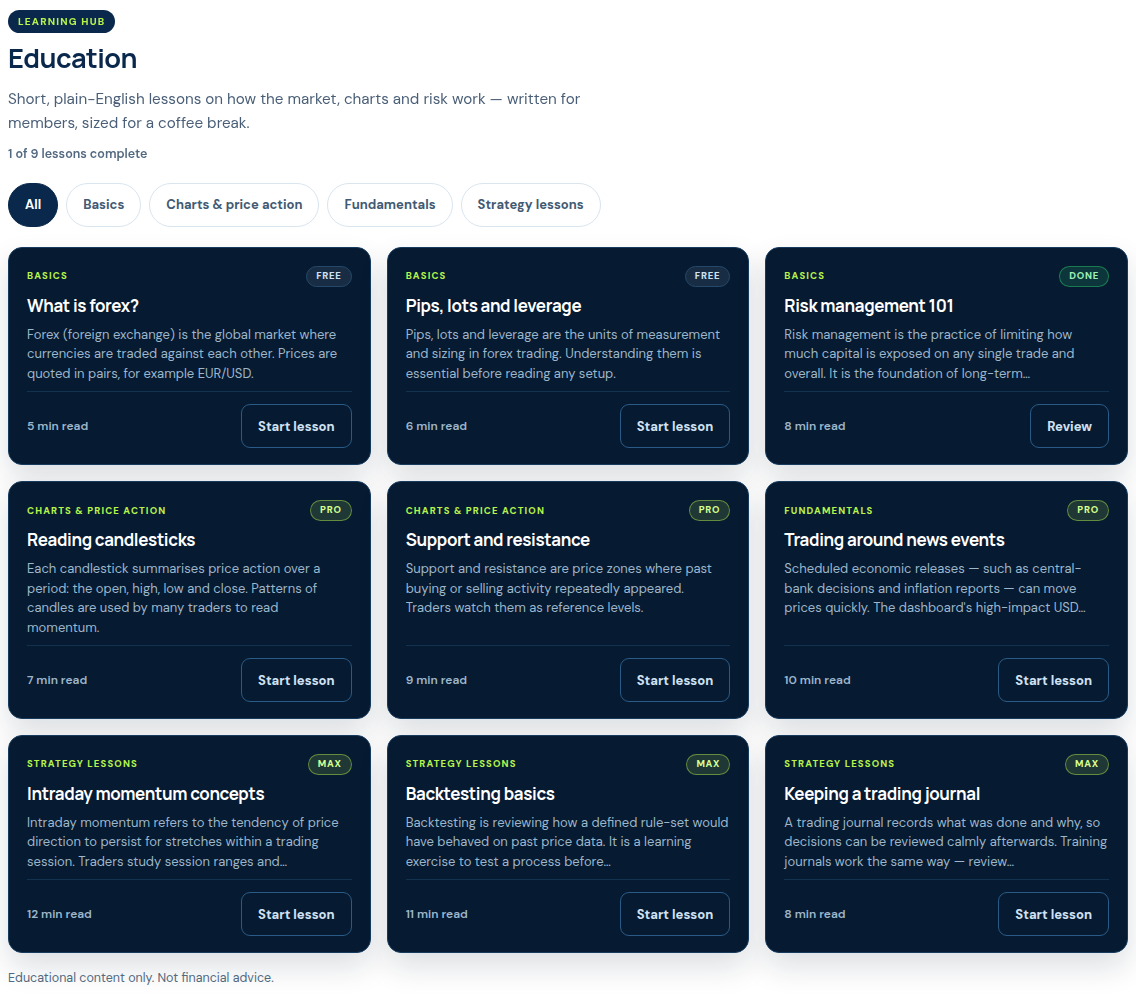
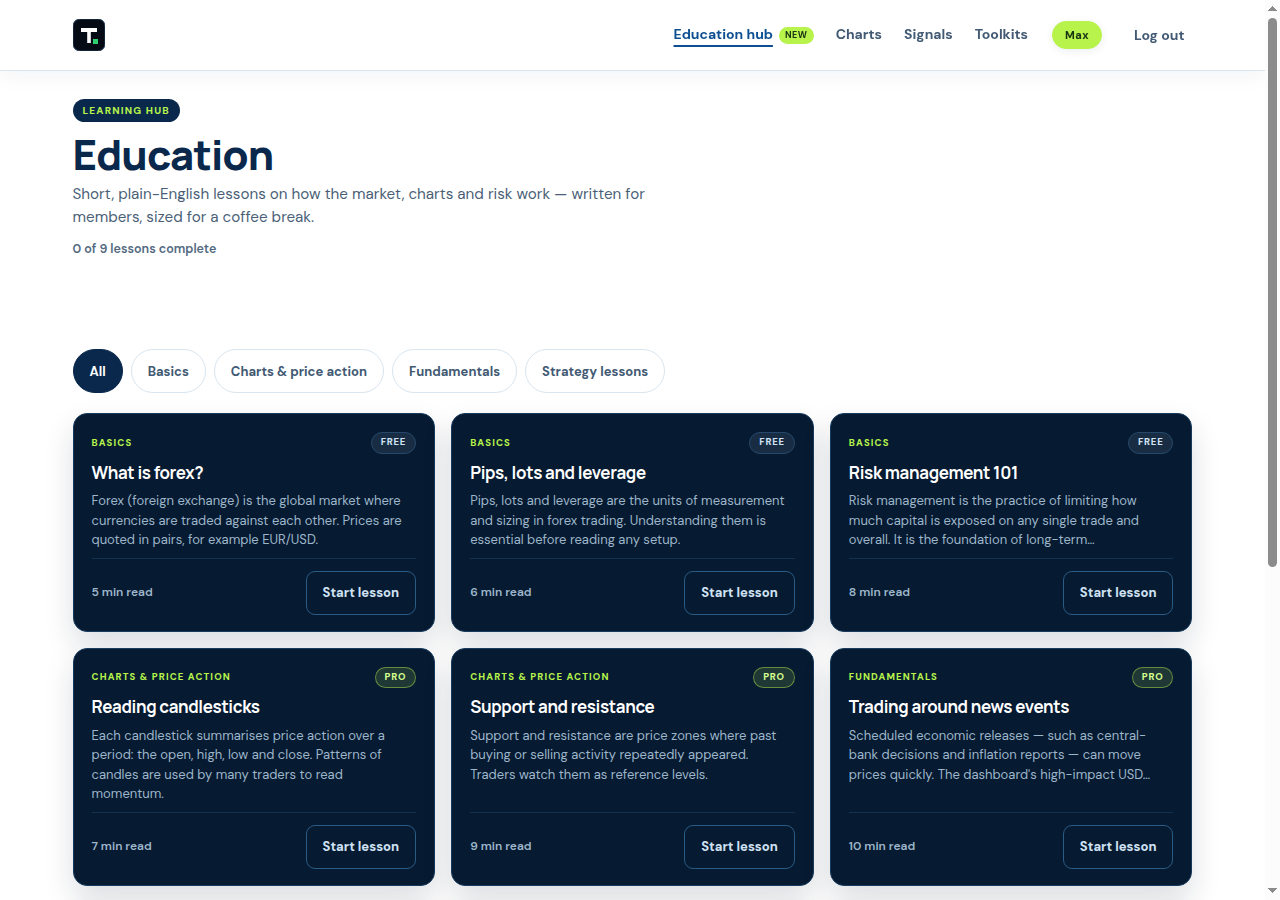
feat(education): move hub to its own page, simplify member nav
- education.html: standalone Learning hub page (header, intro, continue
  card, category tabs, lesson grid, disclaimer, footer). members.html no
  longer carries the Education section.
- Nav across members/education/lesson/subscribe: logo mark only (wordmark
  removed), then Education hub - Charts - Signals - Toolkits.
- members.html: Education nav link points at education.html; adds a
  #toolkits anchor above the signals section where the tools render.
- education.js: hub resolves the member via requireMember() so the page
  knows the plan before rendering; scrollspy dropped (own page now, so
  aria-current="page" is static); back links point at education.html.
- app.css: nav badge + aria-current styles live with the shared nav.

diff --git a/members.html b/members.html
@@ -9,7 +9,6 @@
 <link rel="preconnect" href="https://fonts.gstatic.com" crossorigin>
 <link href="https://fonts.googleapis.com/css2?family=DM+Sans:wght@400;500;600;700;800&family=Manrope:wght@500;600;700;800&display=swap" rel="stylesheet">
 <link rel="stylesheet" href="app.css">
-<link rel="stylesheet" href="education.css?v=2026102001">
 <style>
 [hidden]{display:none!important}
 .badge{font:700 .85rem var(--body);padding:4px 12px;border-radius:99px;background:var(--panel2);border:1px solid var(--line);color:var(--muted)}
@@ -31,13 +30,12 @@
 <header>
   <div class="wrap nav">
     <a class="logo" href="members.html" aria-label="TraderWatch member area">
-      <svg width="32" height="32" viewBox="0 0 32 32" aria-hidden="true"><rect width="32" height="32" rx="7" fill="#050b14" stroke="#264261"/><path d="M8 9h16v4h-6.2v11h-3.6V13H8z" fill="#fff"/><rect x="20" y="20" width="5" height="5" fill="#2ecf6f"/></svg>
-      <span>TraderWatch</span></a>
+      <svg width="32" height="32" viewBox="0 0 32 32" aria-hidden="true"><rect width="32" height="32" rx="7" fill="#050b14" stroke="#264261"/><path d="M8 9h16v4h-6.2v11h-3.6V13H8z" fill="#fff"/><rect x="20" y="20" width="5" height="5" fill="#2ecf6f"/></svg></a>
     <nav aria-label="Member">
+      <a href="education.html">Education hub<span class="edu-new">NEW</span></a>
       <a href="members.html#charts">Charts</a>
       <a href="members.html#signals">Signals</a>
-      <a href="members.html#education" data-edu-link>Education<span class="edu-new">NEW</span></a>
-      <a href="subscribe.html">Subscription</a>
+      <a href="members.html#toolkits">Toolkits</a>
     </nav>
     <span class="badge" id="planBadge">Free</span>
     <button class="linkbtn" type="button" onclick="logOut()">Log out</button>
@@ -102,29 +100,14 @@
       <p class="tg-note" id="tgNote" hidden></p>
     </section>
 
+    <div id="toolkits"></div>
+
     <section class="block tw-motion" id="signals">
       <h2>Signals</h2>
       <div class="signals" id="signalGrid"></div>
       <p class="sample" id="signalNote"></p>
     </section>
 
-    <section class="block edu" id="education" aria-labelledby="eduTitle">
-      <div class="edu-head">
-        <p class="edu-eyebrow">Learning hub</p>
-        <h2 id="eduTitle">Education</h2>
-        <p class="edu-sub">Short, plain-English lessons on how the market, charts and risk work — written for members, sized for a coffee break.</p>
-        <p class="edu-meta" id="eduMeta"></p>
-      </div>
-
-      <div class="edu-continue" id="eduContinue" hidden></div>
-
-      <div class="edu-tabs" id="eduTabs" role="tablist" aria-label="Lesson category"></div>
-
-      <div class="edu-grid" id="eduGrid" role="tabpanel" aria-labelledby="eduTab0"></div>
-      <p class="edu-empty" id="eduEmpty" hidden>No lessons in this category yet.</p>
-
-      <p class="edu-disclaimer">Educational content only. Not financial advice.</p>
-    </section>
   </div>
 </main>
 
@@ -140,8 +123,6 @@
 <script>window.TW_CONFIG = { tzOffset: 8, supportUrl: "", brand: "TraderWatch" };</script>
 <script src="members-tools.js?v=202610182133" defer></script>
 <script src="members-tools-2.js?v=2026101903" defer></script>
-<script src="education-data.js?v=2026102001" defer></script>
-<script src="education.js?v=2026102001" defer></script>
 <script>
 (async function(){
 const member = await requireMember();

diff --git a/education.html b/education.html
@@ -1,0 +1,65 @@
+<!DOCTYPE html>
+<html lang="en">
+<head>
+<meta charset="utf-8">
+<meta name="viewport" content="width=device-width, initial-scale=1">
+<title>Education – TraderWatch</title>
+<meta name="robots" content="noindex">
+<link rel="preconnect" href="https://fonts.googleapis.com">
+<link rel="preconnect" href="https://fonts.gstatic.com" crossorigin>
+<link href="https://fonts.googleapis.com/css2?family=DM+Sans:wght@400;500;600;700;800&family=Manrope:wght@500;600;700;800&display=swap" rel="stylesheet">
+<link rel="stylesheet" href="app.css?v=2026102002">
+<link rel="stylesheet" href="education.css?v=2026102002">
+<style>[hidden]{display:none!important}</style>
+</head>
+<body>
+<header>
+  <div class="wrap nav">
+    <a class="logo" href="members.html" aria-label="TraderWatch member area">
+      <svg width="32" height="32" viewBox="0 0 32 32" aria-hidden="true"><rect width="32" height="32" rx="7" fill="#050b14" stroke="#264261"/><path d="M8 9h16v4h-6.2v11h-3.6V13H8z" fill="#fff"/><rect x="20" y="20" width="5" height="5" fill="#2ecf6f"/></svg></a>
+    <nav aria-label="Member">
+      <a href="education.html" aria-current="page">Education hub<span class="edu-new">NEW</span></a>
+      <a href="members.html#charts">Charts</a>
+      <a href="members.html#signals">Signals</a>
+      <a href="members.html#toolkits">Toolkits</a>
+    </nav>
+    <span class="badge" id="planBadge">Free</span>
+    <button class="linkbtn" type="button" id="eduLogout">Log out</button>
+  </div>
+</header>
+
+<main class="page edu-page">
+  <div class="wrap">
+    <div class="edu-head">
+      <p class="edu-eyebrow">Learning hub</p>
+      <h1 class="edu-title" id="eduTitle">Education</h1>
+      <p class="edu-sub">Short, plain-English lessons on how the market, charts and risk work — written for members, sized for a coffee break.</p>
+      <p class="edu-meta" id="eduMeta"></p>
+    </div>
+
+    <section class="edu" id="education" aria-labelledby="eduTitle">
+      <div class="edu-continue" id="eduContinue" hidden></div>
+
+      <div class="edu-tabs" id="eduTabs" role="tablist" aria-label="Lesson category"></div>
+
+      <div class="edu-grid" id="eduGrid" role="tabpanel" aria-labelledby="eduTab0"></div>
+      <p class="edu-empty" id="eduEmpty" hidden>No lessons in this category yet.</p>
+
+      <p class="edu-disclaimer">Educational content only. Not financial advice.</p>
+    </section>
+  </div>
+</main>
+
+<footer>
+  <div class="wrap">
+    <p>Risk warning: Trading forex and leveraged products carries a high level of risk and may not suit everyone. Signals and charts on this site are for information only and are not financial advice. Past results do not guarantee future results.</p>
+  </div>
+</footer>
+
+<script src="https://cdn.jsdelivr.net/npm/@supabase/supabase-js@2.45.4/dist/umd/supabase.min.js"></script>
+<script src="config.js?v=202610182133"></script>
+<script src="common.js?v=202610182133"></script>
+<script src="education-data.js?v=2026102002" defer></script>
+<script src="education.js?v=2026102002" defer></script>
+</body>
+</html>

diff --git a/education.js b/education.js
@@ -289,35 +289,10 @@
     }, 50);
   }
 
-  function watchNav() {
-    var section = document.getElementById("education");
-    var link = document.querySelector('.nav nav a[data-edu-link]');
-    if (!section || !link) return;
-    var ticking = false;
-    function update() {
-      ticking = false;
-      var rect = section.getBoundingClientRect();
-      // highlight while the section covers the middle of the viewport
-      var on = rect.top < window.innerHeight * 0.55 && rect.bottom > window.innerHeight * 0.45;
-      if (on) link.setAttribute("aria-current", "true");
-      else link.removeAttribute("aria-current");
-    }
-    window.addEventListener("scroll", function () {
-      if (ticking) return;
-      ticking = true;
-      update();
-    }, { passive: true });
-    window.addEventListener("resize", update);
-    update();
-    // a #education deep link scrolls after load; re-check once it settles
-    setTimeout(update, 400);
-  }
-
   function initHub() {
     buildTabs();
     whenTierKnown(function () {
       render();
-      watchNav();
       if ("MutationObserver" in window) {
         new MutationObserver(function (muts) {
           if (muts.some(function (m) { return m.attributeName === "data-tier"; })) render();
@@ -390,7 +365,7 @@
     up.href = "subscribe.html?plan=" + tier;
     actions.appendChild(up);
     var back = el("a", "edu-cta ghost", "Back to Education");
-    back.href = "members.html#education";
+    back.href = "education.html";
     actions.appendChild(back);
     box.appendChild(actions);
     root.appendChild(box);
@@ -437,7 +412,7 @@
     actions.appendChild(btn);
 
     var back = el("a", "edu-cta ghost", "Back to Education");
-    back.href = "members.html#education";
+    back.href = "education.html";
     actions.appendChild(back);
     root.appendChild(actions);
   }
@@ -516,7 +491,7 @@
     p.style.margin = "10px 0 20px";
     root.appendChild(p);
     var a = el("a", "edu-cta", "Back to Education");
-    a.href = "members.html#education";
+    a.href = "education.html";
     root.appendChild(a);
   }
 
@@ -559,8 +534,19 @@
     setProgress: setProgress
   };
 
+  function bootHub() {
+    var p = typeof window.requireMember === "function"
+      ? window.requireMember(location.pathname)
+      : Promise.resolve(null);
+    Promise.resolve(p).then(function (member) {
+      if (member) publishTier(member);
+    }).catch(function () {}).then(function () {
+      initHub();
+    });
+  }
+
   function init() {
-    if (document.getElementById("education")) initHub();
+    if (document.getElementById("education")) bootHub();
     if (document.getElementById("lessonRoot")) bootLesson();
     var logout = document.getElementById("eduLogout");
     if (logout) {

diff --git a/lesson.html b/lesson.html
@@ -9,20 +9,19 @@
 <link rel="preconnect" href="https://fonts.gstatic.com" crossorigin>
 <link href="https://fonts.googleapis.com/css2?family=DM+Sans:wght@400;500;600;700;800&family=Manrope:wght@500;600;700;800&display=swap" rel="stylesheet">
 <link rel="stylesheet" href="app.css">
-<link rel="stylesheet" href="education.css?v=2026102001">
+<link rel="stylesheet" href="education.css?v=2026102002">
 <style>[hidden]{display:none!important}</style>
 </head>
 <body>
 <header>
   <div class="wrap nav">
     <a class="logo" href="members.html" aria-label="TraderWatch member area">
-      <svg width="32" height="32" viewBox="0 0 32 32" aria-hidden="true"><rect width="32" height="32" rx="7" fill="#050b14" stroke="#264261"/><path d="M8 9h16v4h-6.2v11h-3.6V13H8z" fill="#fff"/><rect x="20" y="20" width="5" height="5" fill="#2ecf6f"/></svg>
-      <span>TraderWatch</span></a>
+      <svg width="32" height="32" viewBox="0 0 32 32" aria-hidden="true"><rect width="32" height="32" rx="7" fill="#050b14" stroke="#264261"/><path d="M8 9h16v4h-6.2v11h-3.6V13H8z" fill="#fff"/><rect x="20" y="20" width="5" height="5" fill="#2ecf6f"/></svg></a>
     <nav aria-label="Member">
+      <a href="education.html" aria-current="page">Education hub<span class="edu-new">NEW</span></a>
       <a href="members.html#charts">Charts</a>
       <a href="members.html#signals">Signals</a>
-      <a href="members.html#education" aria-current="page">Education<span class="edu-new">NEW</span></a>
-      <a href="subscribe.html">Subscription</a>
+      <a href="members.html#toolkits">Toolkits</a>
     </nav>
     <span class="badge" id="planBadge">Free</span>
     <button class="linkbtn" type="button" id="eduLogout">Log out</button>
@@ -31,7 +30,7 @@
 
 <main class="edu-lesson-page">
   <div class="wrap edu-lesson-wrap">
-    <a class="edu-back" href="members.html#education">
+    <a class="edu-back" href="education.html">
       <svg width="16" height="16" viewBox="0 0 16 16" aria-hidden="true" focusable="false"><path d="M10 3 5 8l5 5" fill="none" stroke="currentColor" stroke-width="1.8" stroke-linecap="round" stroke-linejoin="round"/></svg>
       Back to Education
     </a>
@@ -50,7 +49,7 @@
 <script src="https://cdn.jsdelivr.net/npm/@supabase/supabase-js@2.45.4/dist/umd/supabase.min.js"></script>
 <script src="config.js?v=202610182133"></script>
 <script src="common.js?v=202610182133"></script>
-<script src="education-data.js?v=2026102001" defer></script>
-<script src="education.js?v=2026102001" defer></script>
+<script src="education-data.js?v=2026102002" defer></script>
+<script src="education.js?v=2026102002" defer></script>
 </body>
 </html>

diff --git a/subscribe.html b/subscribe.html
@@ -38,12 +38,12 @@ dialog ol{margin:14px 0 18px 20px;color:var(--muted);display:grid;gap:6px}
 <header>
   <div class="wrap nav">
     <a class="logo" href="members.html" aria-label="TraderWatch member area">
-      <svg width="32" height="32" viewBox="0 0 32 32" aria-hidden="true"><rect width="32" height="32" rx="7" fill="#050b14" stroke="#264261"/><path d="M8 9h16v4h-6.2v11h-3.6V13H8z" fill="#fff"/><rect x="20" y="20" width="5" height="5" fill="#2ecf6f"/></svg>
-      <span>TraderWatch</span></a>
+      <svg width="32" height="32" viewBox="0 0 32 32" aria-hidden="true"><rect width="32" height="32" rx="7" fill="#050b14" stroke="#264261"/><path d="M8 9h16v4h-6.2v11h-3.6V13H8z" fill="#fff"/><rect x="20" y="20" width="5" height="5" fill="#2ecf6f"/></svg></a>
     <nav aria-label="Member">
+      <a href="education.html">Education hub<span class="edu-new">NEW</span></a>
       <a href="members.html#charts">Charts</a>
       <a href="members.html#signals">Signals</a>
-      <a href="subscribe.html">Subscription</a>
+      <a href="members.html#toolkits">Toolkits</a>
     </nav>
     <span class="badge" id="planBadge">Free</span>
     <button class="linkbtn" type="button" onclick="logOut()">Log out</button>

diff --git a/education.css b/education.css
@@ -21,25 +21,9 @@
   --edu-radius: 14px;
 }
 
-/* --- nav: NEW badge + current page state -------------------------------- */
-.nav nav a .edu-new {
-  display: inline-block;
-  margin-left: 6px;
-  padding: 2px 6px;
-  border-radius: 99px;
-  background: var(--gold);
-  color: #193414;
-  font: 800 9px/1.4 var(--body);
-  letter-spacing: .06em;
-  vertical-align: 1px;
-}
-.nav nav a[aria-current="true"],
-.nav nav a[aria-current="page"] {
-  color: var(--blue);
-  text-decoration: underline;
-  text-decoration-thickness: 2px;
-  text-underline-offset: 6px;
-}
+/* --- page shell (standalone education.html) ----------------------------- */
+.edu-page { padding: 26px 0 56px; }
+.edu-title { margin: 0 0 4px; font-size: clamp(1.9rem, 4vw, 2.6rem); color: var(--navy); }
 
 /* --- section shell ------------------------------------------------------ */
 .edu { scroll-margin-top: 90px; }

diff --git a/app.css b/app.css
@@ -166,3 +166,7 @@ footer p+p{margin-top:12px;max-width:80ch}
   .tabs button{padding:7px 11px;font-size:12px}
 }
 @media(prefers-reduced-motion:reduce){html{scroll-behavior:auto}.sig{transition:none}.sig:hover{transform:none}}
+
+/* member nav: Education NEW badge + current-page state (shared by all member pages) */
+.nav nav a .edu-new{display:inline-block;margin-left:6px;padding:2px 6px;border-radius:99px;background:var(--gold);color:#193414;font:800 9px/1.4 var(--body);letter-spacing:.06em;vertical-align:1px}
+.nav nav a[aria-current="page"],.nav nav a[aria-current="true"]{color:var(--blue);text-decoration:underline;text-decoration-thickness:2px;text-underline-offset:6px}
